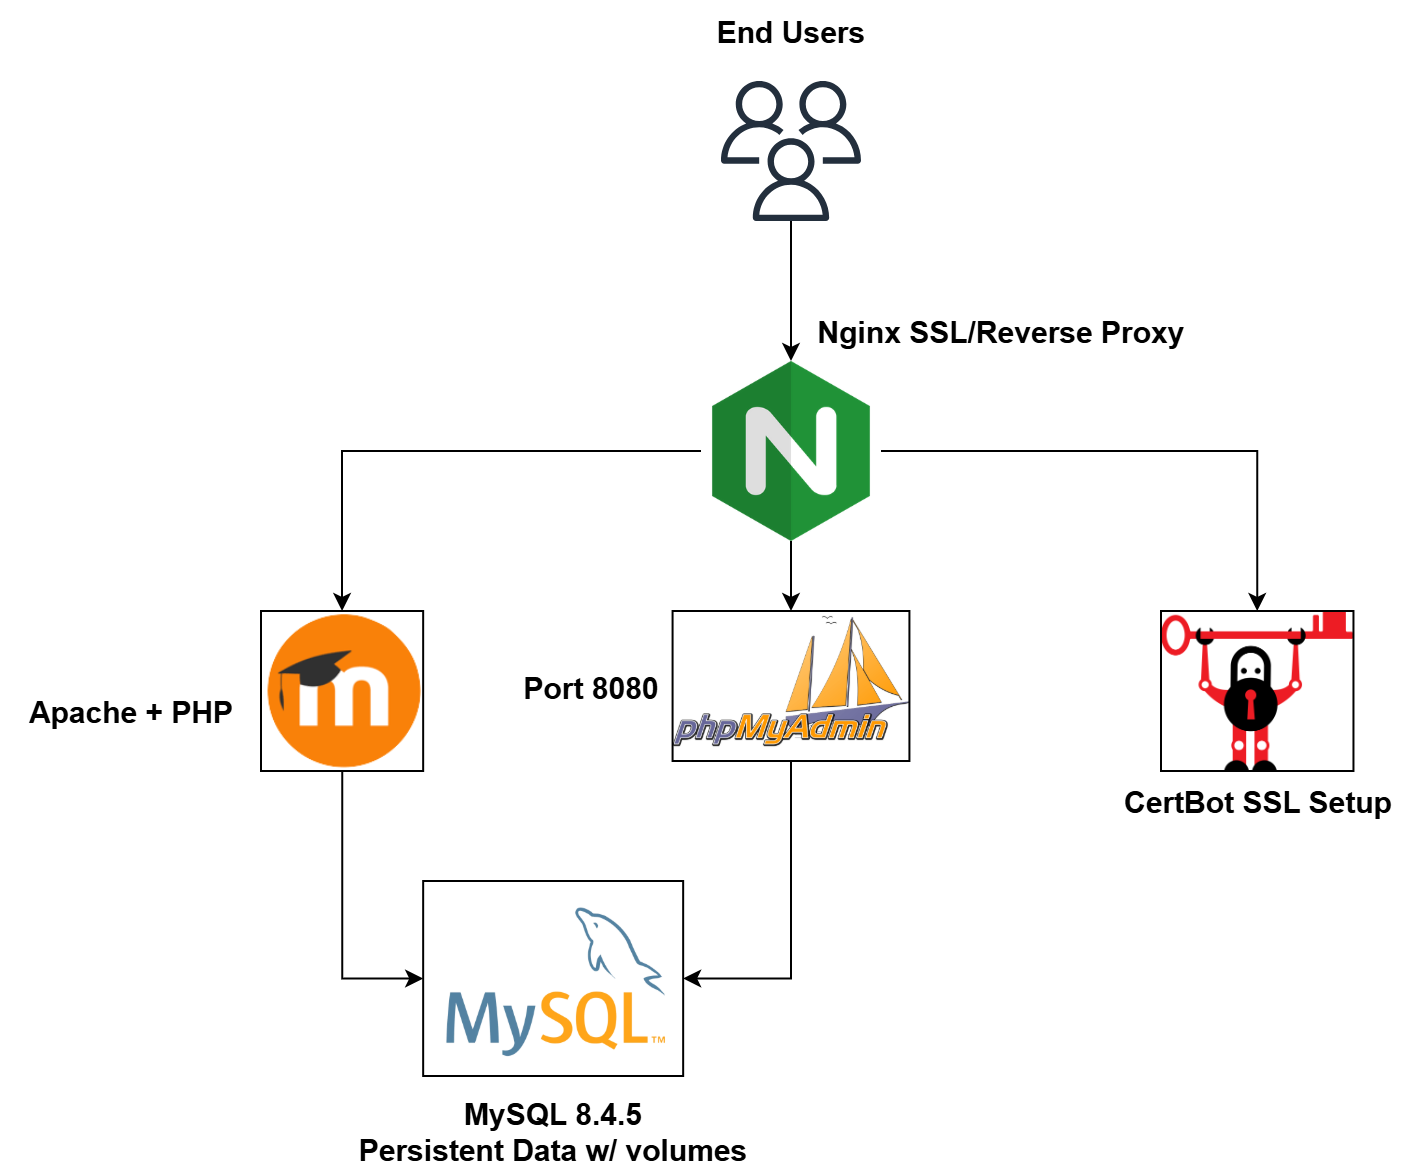
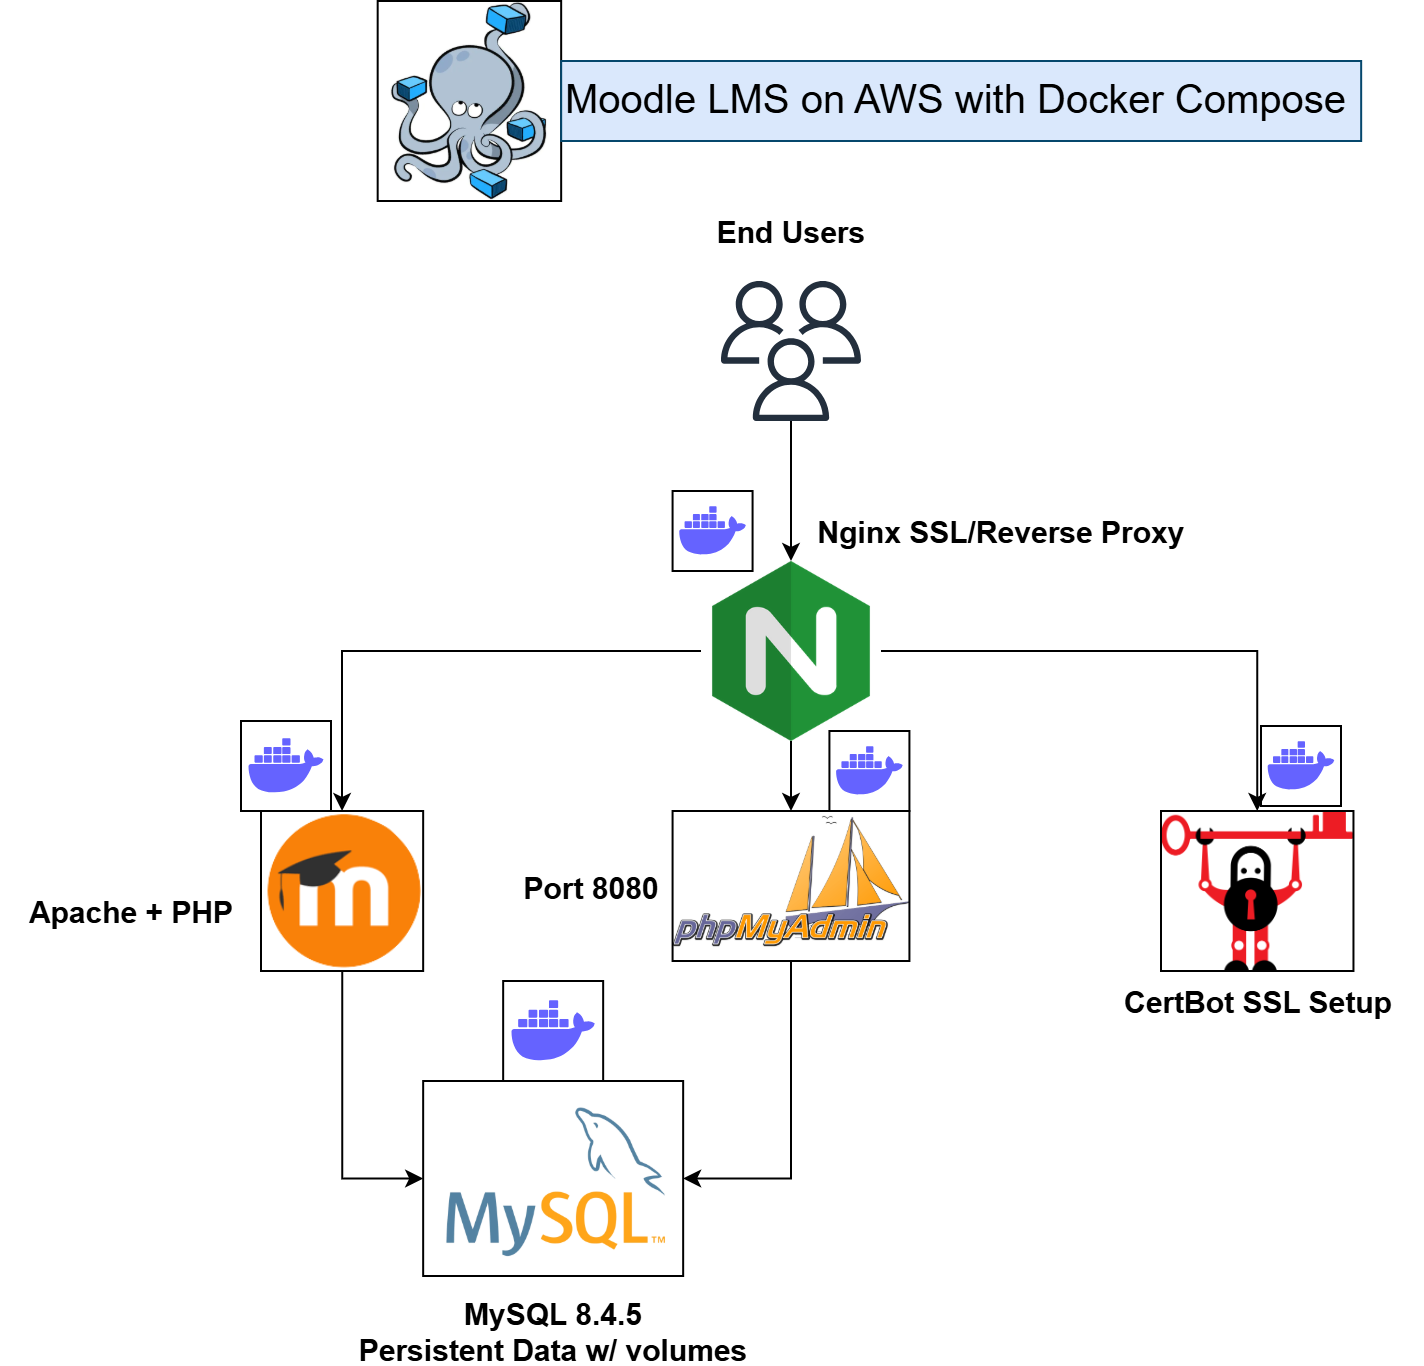
architecture image resized and readme updated

diff --git a/README.md b/README.md
@@ -13,7 +13,7 @@ The deployment includes a custom Moodle Docker image (built from the [Moodle Git
 
 ## 🚀 Project Overview
 
-* **Moodle Service**: Custom Docker image (`oluwaseuna/runmoodle:1.4`) with an `entrypoint.sh` script that dynamically generates `config.php` using environment variables and secret files.
+* **Moodle Service**: Custom Docker image (`oluwaseuna/runmoodle:1.7`) with an `entrypoint.sh` script that dynamically generates `config.php` using environment variables and secret files.
 * **Database**: MySQL 8.4.5 with persistent storage via Docker named volumes.
 * **phpMyAdmin**: Database management tool to interact with Moodle’s MySQL database.
 * **Nginx**: Reverse proxy with SSL termination.
@@ -25,7 +25,11 @@ This architecture ensures a **secure, scalable, and production-ready Moodle LMS*
 
 The architecture of the deployment is documented in the [`architecture`](https://github.com/seunayolu/moodle-docker-compose/tree/main/architecture) folder
 
-![Moodle Architecture](https://github.com/seunayolu/moodle-docker-compose/blob/main/architecture/moodle-arch.png?raw=true)
+## 🏗 Architecture
+
+<p align="center">
+  <img src="https://github.com/seunayolu/moodle-docker-compose/blob/main/architecture/moodle-arch.png?raw=true" alt="Moodle Architecture" width="600"/>
+</p>
 
 ## 📦 Services
 
